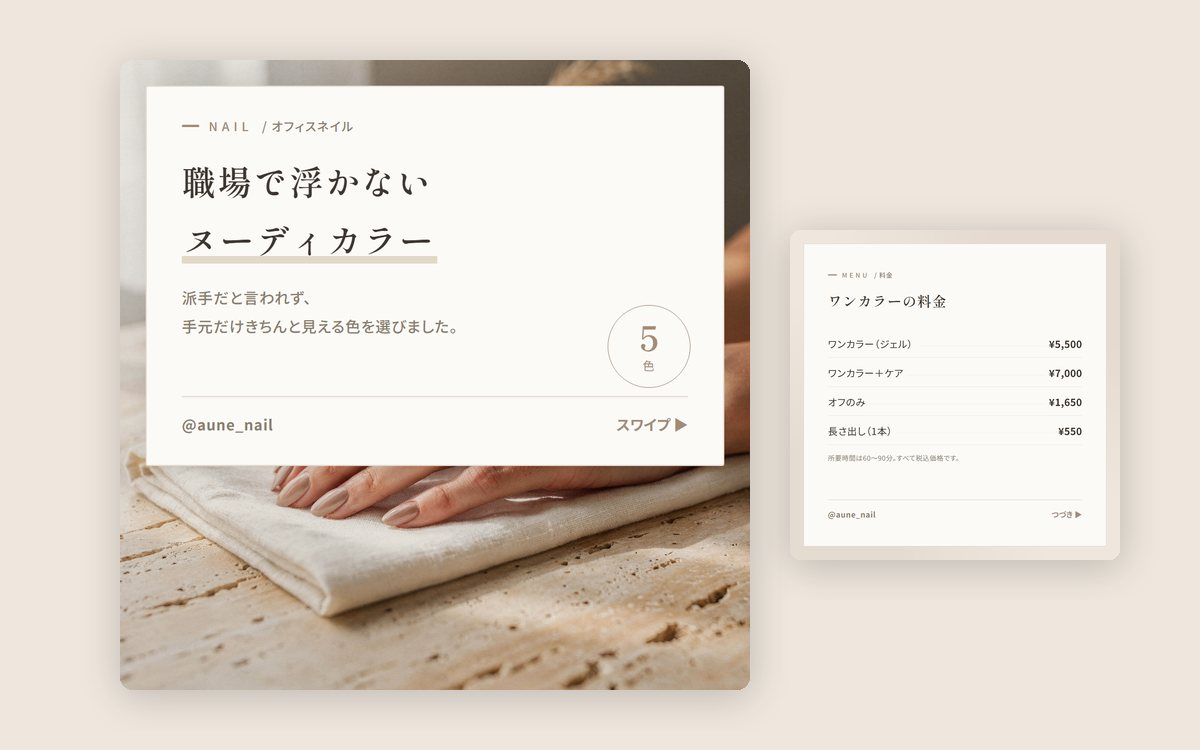
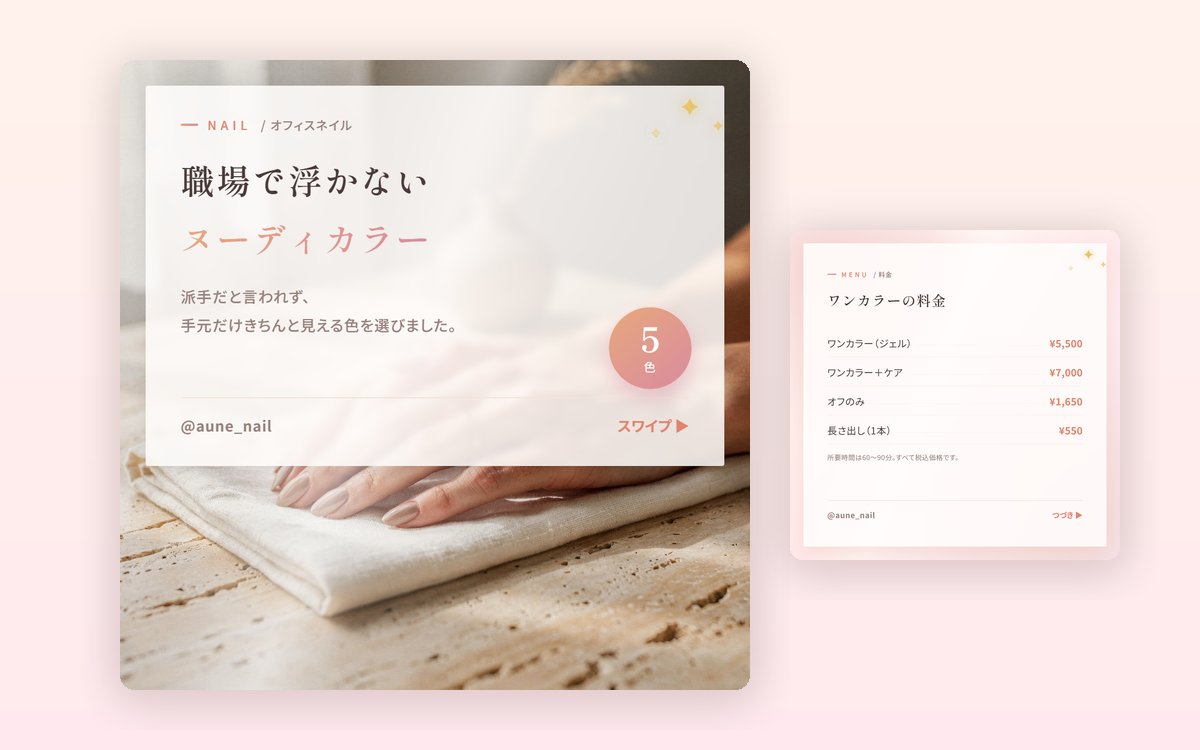
かなめ会計とAUNE nailを、Instagram向けに明るい配色へ作り直す
紺・グレージュの落ち着いた版はフィードで沈むため、
背景をグラデーションに変え、バッジと数字をグラデーションで抜き、
右上にきらめきを3つ置いた。カードは86%まで透かして地を通している。

書体・文字量・余白は変えていない。色と光だけで華やかさを出し、
税理士側は本文の硬さを残すことで信頼感とのバランスを取った。
実績ページの説明文も、新しい配色の意図に合わせて書き直している。

diff --git a/works/aune-nail.html b/works/aune-nail.html
@@ -4,7 +4,7 @@
 <meta charset="UTF-8">
 <meta name="viewport" content="width=device-width, initial-scale=1">
 <title>AUNE nail｜制作実績 — Youhei</title>
-<meta name="description" content="ネイルサロンを想定したInstagram投稿。明朝体と広い余白で静けさを出し、料金表とメニューまで同じテンプレートで作れる構成にしました。">
+<meta name="description" content="ネイルサロンを想定したInstagram投稿。明朝体と広い余白は保ったまま、ピーチからローズのグラデーションと箔のような差し色で華やかさを足しました。">
 <link rel="preconnect" href="https://fonts.googleapis.com">
 <link rel="preconnect" href="https://fonts.gstatic.com" crossorigin>
 <link href="https://fonts.googleapis.com/css2?family=Noto+Sans+JP:wght@400;500;700&family=Shippori+Mincho:wght@500;600;700&family=Space+Grotesk:wght@500;600;700&display=swap" rel="stylesheet">
@@ -42,7 +42,7 @@
     <h1 class="work-head__title">AUNE nail</h1>
     <p class="work-head__lead">
       オフィスでも浮かない色をすすめる、大人向けネイルサロンのアカウントを想定しました。
-      情報量を増やすのではなく、<strong>余白と明朝体で「静かさ」を作り、単価の高さを見た目で伝える</strong>ことを主題にしています。
+      情報量を増やすのではなく、<strong>余白と明朝体は保ったまま、光と箔で華やかさを足す</strong>ことを主題にしています。
     </p>
   </div>
 </div>
@@ -51,8 +51,8 @@
   <div class="l-container">
 
     <figure class="work-shot">
-      <img src="../assets/img/works/aune-1.jpg" alt="AUNE nailの投稿3枚。グレージュの地に、手元の写真を敷いた表紙、ネイルポリシュの写真ヘッダーつき中面、料金表が並ぶ" width="1200" height="750" loading="lazy" decoding="async">
-      <figcaption>表紙・本文・料金表。文字を減らし、余白そのものを見せています。</figcaption>
+      <img src="../assets/img/works/aune-1.jpg" alt="AUNE nailの投稿3枚。ピーチからローズのグラデーションの地に、手元の写真を敷いた表紙、ネイルポリシュの中面、料金表が並ぶ" width="1200" height="750" loading="lazy" decoding="async">
+      <figcaption>表紙・本文・料金表。文字は減らしたまま、地の色で華やかさを出しています。</figcaption>
     </figure>
 
     <div class="work-shots">
@@ -61,7 +61,7 @@
       <figcaption>6枚組。写真つきの枚数を半分に抑え、静けさを保っています。</figcaption>
     </figure>
     <figure class="work-shot">
-      <img src="../assets/img/works/aune-3.jpg" alt="表紙と料金表の拡大。明朝体の見出しと、点線でつないだメニューと価格" width="1200" height="750" loading="lazy" decoding="async">
+      <img src="../assets/img/works/aune-3.jpg" alt="表紙と料金表の拡大。グラデーションで抜いた明朝体の見出しと、点線でつないだメニューと価格" width="1200" height="750" loading="lazy" decoding="async">
       <figcaption>料金表は点線でつなぐ形に。価格を右端でそろえています。</figcaption>
     </figure>
     </div>
@@ -76,13 +76,14 @@
     </table>
 
     <div class="prose" style="margin-top:50px">
-      <h3>情報を減らすことが、このアカウントの仕事</h3>
+      <h3>文字は減らす。華やかさは、地の色で出す</h3>
       <p>美容系のアカウントは、文字を詰めるほど安く見えます。ここでは1枚あたりの本文を2〜3行に抑え、<strong>カード内側の余白を86pxまで広げました</strong>。他の案件（税理士事務所）では68pxなので、2割以上ゆるい設定です。</p>
-      <p>書体も見出しだけ明朝体に変え、字間を0.06emまで開けています。同じ内容でも、文字を細くして間隔を空けるだけで、客単価の印象が変わります。</p>
+      <p>ただ、余白だけで作るとフィードのなかでは地味に沈みます。そこで文字量はそのままに、<strong>背景をピーチからローズへのグラデーション</strong>にし、見出しの一部を<strong>ローズからゴールドのグラデーション</strong>で抜きました。書体は明朝のまま、字間も0.06emのままです。</p>
+      <p>足したのは色と光だけで、<strong>文字の太さと量には一切触れていません</strong>。ここを太くすると、単価の高さの印象がそのまま崩れます。</p>
 
-      <h3>丸を描かず、線で描く</h3>
-      <p>数字バッジは、他のアカウントでは塗りつぶした円ですが、ここでは<strong>1pxの線だけの円</strong>にしました。タグも角丸のピルをやめ、下線だけにしています。</p>
-      <p>塗りを減らすと全体の色数が減り、写真の色だけが残ります。グレージュの地に、写真の中のベージュとゴールドだけが差し色として効く状態を狙いました。</p>
+      <h3>箔のような光を、1か所だけ置く</h3>
+      <p>数字バッジは塗りつぶしの円に戻し、<strong>ローズからゴールドのグラデーションと、外側に回した光</strong>で箔のような質感にしました。きらめきの装飾は右上に3つだけです。</p>
+      <p>散らしすぎると、素材サイトのテンプレートのように見えます。<strong>光るものは画面に2つまで</strong>（バッジときらめき）と決め、タグや罫線は淡いままにしています。</p>
 
       <h3>写真は3枚に抑える</h3>
       <p>6枚中、写真を使ったのは3枚です。全枚数に写真を入れると、スクロールしたときに情報が頭に残りません。<strong>写真は表紙と、色の話をする本文と、店内の雰囲気を見せる本文だけ</strong>に置きました。</p>
@@ -92,11 +93,12 @@
         <p class="note__title">つまずいた点：ピンクを避けるだけでは、同じ写真になってしまう</p>
         <p>最初の指示では、以前に作った別アカウント（20代向けの情報発信）と<strong>構図も光もほとんど同じ写真</strong>が出てきました。「カフェの手元」「淡い色」という指定が共通していたためです。</p>
         <p>変えたのは色ではなく、<strong>質感と光の方向</strong>でした。トラバーチン（石）とリネン、北向きの窓からの拡散光、高めの露出を指定し、「no pink cast」を明示。同じ淡い色でも、石とリネンの質感が入ると別のブランドに見えます。色を変えるより、素材を変えるほうが効きました。</p>
+        <p>なお、写真そのものは淡いままにしてあります。<strong>華やかさは背景のグラデーション側で作り、写真には足していません</strong>。写真まで色を盛ると、実際の施術と仕上がりの色が変わってしまうためです。</p>
       </div>
 
       <h3>料金表も、同じテンプレートで出せるようにする</h3>
       <p>サロンのアカウントでは、料金とメニューの投稿が必ず必要になります。これを画像編集ソフトで作ると、値上げのたびに作り直しになります。</p>
-      <p>そこで<strong>料金表を1つの型として組み込みました</strong>。メニュー名と価格を並べて書くだけで、点線のリーダーと右端そろえの価格が出ます。所要時間や税込表記の注記も定位置に入ります。</p>
+      <p>そこで<strong>料金表を1つの型として組み込みました</strong>。メニュー名と価格を並べて書くだけで、点線のリーダーと右端そろえの価格が出ます。価格だけアクセントカラーで拾い、所要時間や税込表記の注記も定位置に入ります。</p>
 
       <h3>実運用に足りていないもの</h3>
       <p>サロンの集客では、<strong>施術例の写真がいちばん見られます</strong>。今回は生成画像のため、実際のデザインや仕上がりは載せられていません。運用するなら、施術後の写真を同じトリミング・同じ明るさで撮る撮影ルールの設計から入ります。</p>

diff --git a/works/kaname-tax.html b/works/kaname-tax.html
@@ -4,7 +4,7 @@
 <meta charset="UTF-8">
 <meta name="viewport" content="width=device-width, initial-scale=1">
 <title>かなめ会計事務所｜制作実績 — Youhei</title>
-<meta name="description" content="フリーランス向けの税理士事務所を想定したInstagram投稿。数字と比較表で信頼感を出す、士業向けのトンマナで設計しました。写真を使わず図解だけで成立させています。">
+<meta name="description" content="フリーランス向けの税理士事務所を想定したInstagram投稿。写真を使わず図解だけで組み、青紫のグラデーションで硬い題材をフィードで目立たせました。">
 <link rel="preconnect" href="https://fonts.googleapis.com">
 <link rel="preconnect" href="https://fonts.gstatic.com" crossorigin>
 <link href="https://fonts.googleapis.com/css2?family=Noto+Sans+JP:wght@400;500;700&family=Shippori+Mincho:wght@500;600;700&family=Space+Grotesk:wght@500;600;700&display=swap" rel="stylesheet">
@@ -43,6 +43,7 @@
     <p class="work-head__lead">
       フリーランス・個人事業主に向けて税金の情報を発信する事務所アカウントを想定した投稿です。
       <strong>写真を1枚も使わず、比較表と手順図だけで成立させる</strong>ことを主題にしました。
+      硬い題材でもフィードで埋もれないよう、背景はグラデーションにしています。
     </p>
   </div>
 </div>
@@ -51,8 +52,8 @@
   <div class="l-container">
 
     <figure class="work-shot">
-      <img src="../assets/img/works/kaname-1.jpg" alt="かなめ会計事務所の投稿3枚。淡い青灰の地に、紺の見出しの表紙、白色申告と青色申告の比較表、3手順の図解が並ぶ" width="1200" height="750" loading="lazy" decoding="async">
-      <figcaption>表紙・比較表・手順図。士業らしい硬さを保ちながら、読める分量に絞りました。</figcaption>
+      <img src="../assets/img/works/kaname-1.jpg" alt="かなめ会計事務所の投稿3枚。青紫のグラデーションの地に、白いカードの表紙、白色申告と青色申告の比較表、3手順の図解が並ぶ" width="1200" height="750" loading="lazy" decoding="async">
+      <figcaption>表紙・比較表・手順図。文字は硬いまま、色で軽さを足しています。</figcaption>
     </figure>
 
     <div class="work-shots">
@@ -61,7 +62,7 @@
       <figcaption>7枚組。型を4種類（表紙・比較・本文・手順）組み合わせています。</figcaption>
     </figure>
     <figure class="work-shot">
-      <img src="../assets/img/works/kaname-3.jpg" alt="比較表スライドの拡大。左に白色申告、右に青色申告を並べ、右側だけ紺で強調している" width="1200" height="750" loading="lazy" decoding="async">
+      <img src="../assets/img/works/kaname-3.jpg" alt="比較表スライドの拡大。左に白色申告、右に青色申告を並べ、右側だけ青紫のグラデーションで強調している" width="1200" height="750" loading="lazy" decoding="async">
       <figcaption>結論のある比較は、片側だけ色を変えて視線を誘導します。</figcaption>
     </figure>
     </div>
@@ -76,12 +77,13 @@
     </table>
 
     <div class="prose" style="margin-top:50px">
-      <h3>士業のアカウントで、やわらかくしすぎない</h3>
-      <p>同じ「情報を届ける投稿」でも、税理士事務所に丸ゴシックとくすみピンクを使うと、内容の信頼度まで軽く見えます。ここでは<strong>紺（#1F3B6E）と白、差し色に朱（#C0442F）</strong>を使い、書体は角ゴシックの太字で統一しました。角丸も12pxまで小さくして、書類に近い硬さを残しています。</p>
-      <p>ただ、硬いだけでは読まれません。1枚あたりの文字数を本文3行までに制限し、専門用語には必ず説明を添えました。「複式簿記」だけで終わらせず、何が必要になるのかまで書いています。</p>
+      <h3>硬い題材を、フィードで止めてもらう</h3>
+      <p>税金の話は、そのまま作ると書類のような画面になります。紺と白だけで組んだ初稿は、内容は正確でも<strong>フィードに並べたときスクロールの手が止まりません</strong>でした。</p>
+      <p>変えたのは地と差し色です。背景を<strong>青からラベンダーへのグラデーション</strong>にし、数字とバッジは<strong>ブルー（#3C6DF0）からパープル（#8B5CF6）のグラデーション</strong>で抜きました。カードは白のまま86%まで透かし、後ろのグラデーションをうっすら通しています。</p>
+      <p>いっぽうで、<strong>書体と文字色は変えていません</strong>。角ゴシックの太字、本文は3行まで。色で目を引いて、中身は硬いまま読ませる配分にしました。装飾を文字にまで広げると、税理士のアカウントとしての信頼感のほうが先に落ちます。</p>
 
       <h3>比較表は、結論のある側だけ色を変える</h3>
-      <p>白色申告と青色申告を並べる比較表では、左右を対等に見せると読者は判断できません。<strong>すすめたい側（青色申告）だけ枠と見出しを紺で塗り、数値もアクセントカラー</strong>にしました。左側は淡いグレーに落としています。</p>
+      <p>白色申告と青色申告を並べる比較表では、左右を対等に見せると読者は判断できません。<strong>すすめたい側（青色申告）だけ見出しをグラデーションで塗り、枠に光を回し、数値も青</strong>にしました。左側は淡いグレーに落としています。</p>
       <p>項目は4つに絞りました。実際の違いはもっとありますが、スマホの画面で比較表を読ませるなら4行が限界です。「特別控除・事前の届出・帳簿・赤字の繰越」という、最初に知りたい順に並べています。</p>
 
       <div class="note">
@@ -96,7 +98,8 @@
 
       <h3>写真を使わないという選択</h3>
       <p>士業のアカウントでは、無理に写真を入れると急に広告らしくなります。オフィスの写真も、フリー素材の握手の写真も、内容と関係がありません。</p>
-      <p>このアカウントは<strong>写真を1枚も使わず、文字組みと図だけ</strong>で組みました。そのぶん余白と罫線の設計に寄せています。写真がないので、素材の準備なしに投稿を量産できるという運用上の利点もあります。</p>
+      <p>このアカウントは<strong>写真を1枚も使わず、グラデーションと図だけ</strong>で組みました。華やかさは背景と光で作っています。写真がないぶん、素材の準備なしに量産できるという運用上の利点もあります。</p>
+      <p>きらめきの装飾は右上に3つだけ。全面に散らすと一気に安く見えるので、<strong>置く場所を1か所に固定</strong>し、どの型でも本文と重ならない位置にしました。</p>
 
       <h3>実運用に足りていないもの</h3>
       <p>税制は毎年変わるため、<strong>数字を載せた投稿は年度ごとの見直しが必要</strong>です。65万円控除の要件（e-Tax提出か電子帳簿保存）のように、条件つきの数字も多くあります。実際の運用では、税理士本人の確認を通す工程を必ず挟む前提です。</p>

diff --git a/index.html b/index.html
@@ -497,14 +497,14 @@
         <!-- ▼ Webサイトではないため、実サイトへのリンクは持たない -->
         <div class="work__inner">
           <div class="work__media">
-            <img class="work__image" src="assets/img/works/kaname-1.jpg" alt="かなめ会計事務所の投稿3枚。紺と白を基調に、比較表と手順図のスライドが並ぶ" width="1200" height="750" loading="lazy" decoding="async">
+            <img class="work__image" src="assets/img/works/kaname-1.jpg" alt="かなめ会計事務所の投稿3枚。青紫のグラデーションを基調に、比較表と手順図のスライドが並ぶ" width="1200" height="750" loading="lazy" decoding="async">
             <span class="work__badge">Instagram</span>
           </div>
           <div class="work__body">
             <p class="work__genre">税理士事務所（フリーランス向け）</p>
             <h3 class="work__title"><a class="work__title-link" href="works/kaname-tax.html">かなめ会計事務所</a></h3>
             <p class="work__desc">
-              写真を1枚も使わず、比較表と手順図だけで組んだ士業向けの投稿。硬さを保ったまま、1枚あたり3行まで削っています。
+              写真を1枚も使わず、比較表と手順図だけで構成。背景のグラデーションで目を引き、文字は硬いまま3行に削っています。
             </p>
             <ul class="work__tags">
               <li>Instagram</li><li>図解</li><li>比較表</li><li>コピー</li>
@@ -520,14 +520,14 @@
         <!-- ▼ Webサイトではないため、実サイトへのリンクは持たない -->
         <div class="work__inner">
           <div class="work__media">
-            <img class="work__image" src="assets/img/works/aune-1.jpg" alt="AUNE nailの投稿3枚。グレージュを基調に、手元の写真の表紙と料金表が並ぶ" width="1200" height="750" loading="lazy" decoding="async">
+            <img class="work__image" src="assets/img/works/aune-1.jpg" alt="AUNE nailの投稿3枚。ピーチからローズのグラデーションを基調に、手元の写真の表紙と料金表が並ぶ" width="1200" height="750" loading="lazy" decoding="async">
             <span class="work__badge">Instagram</span>
           </div>
           <div class="work__body">
             <p class="work__genre">ネイルサロン</p>
             <h3 class="work__title"><a class="work__title-link" href="works/aune-nail.html">AUNE nail</a></h3>
             <p class="work__desc">
-              明朝体と広い余白で静けさを作り、単価の高さを見た目で伝える構成。値上げに耐えるよう料金表も型にしました。
+              明朝体と広い余白は保ったまま、地の色と箔の光で華やかさを出した構成。料金表も型にして、値上げに耐える作りです。
             </p>
             <ul class="work__tags">
               <li>Instagram</li><li>明朝</li><li>料金表</li><li>画像生成</li>
